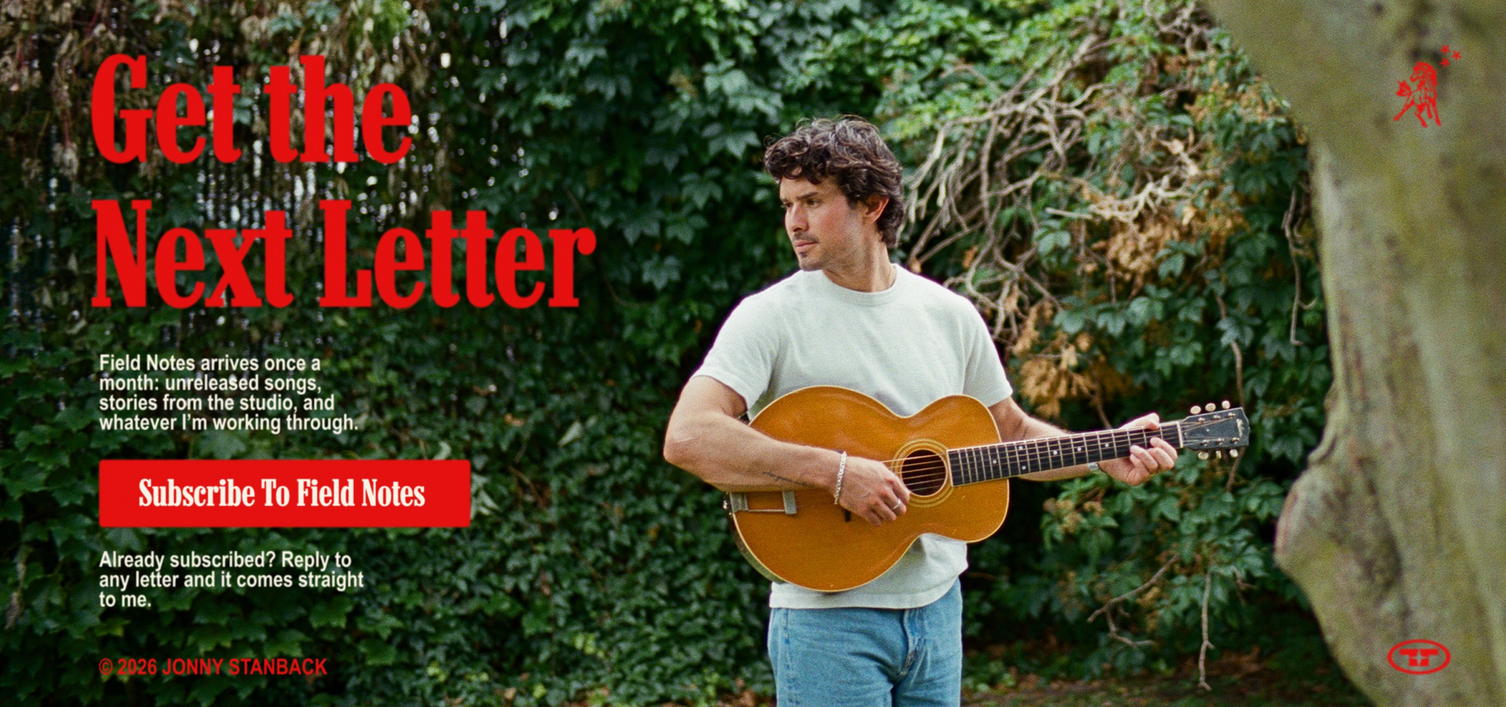
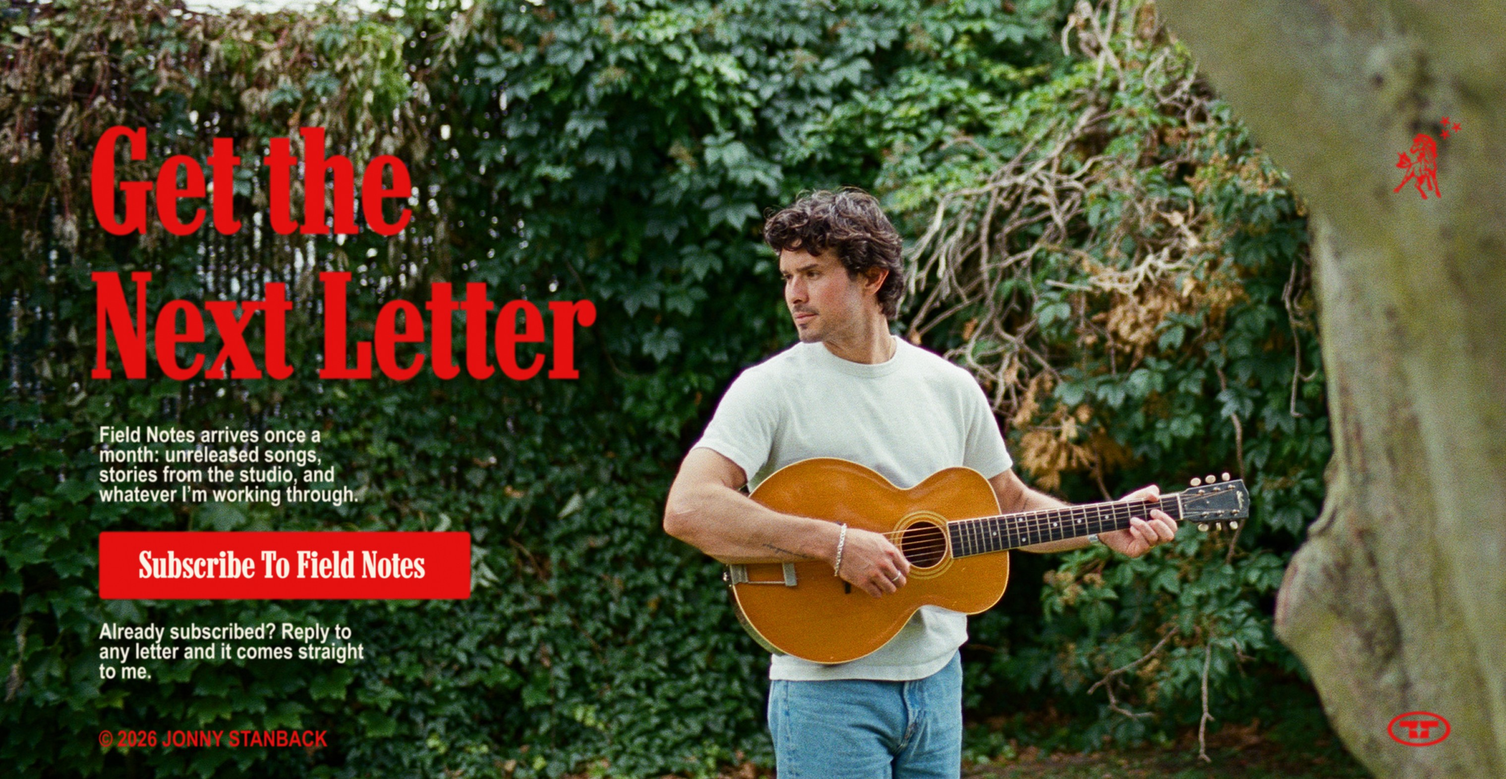
Field Notes: taller footer art with room for the reveal
Claude-Session: https://claude.ai/code/session_01WskyRLXqypqshX3CtVVRFg

diff --git a/src/styles/field-notes.css b/src/styles/field-notes.css
@@ -423,7 +423,7 @@ figcaption {
   .fn-tab__date { height: 1.45rem; margin-top: 0.4rem; }
   /* phones: crop the footer art to its text side so the words stay readable
      (left 1367px of 3038; button keeps its spot within that crop) */
-  .fn-subscribe .fn-subscribe__art { aspect-ratio: 1367 / 1427; object-fit: cover; object-position: left center; }
+  .fn-subscribe .fn-subscribe__art { aspect-ratio: 1367 / 1572; object-fit: cover; object-position: left center; }
   .fn-subscribe .fn-subscribe__button { left: 14.7%; width: 54.57%; }
   .fn-demo__bar { grid-template-columns: auto 1fr; column-gap: 1rem; row-gap: 0.9rem; padding: 1rem 1.1rem; }
   .fn-demo__title { font-size: 0.92rem; white-space: normal; }
@@ -453,13 +453,13 @@ figcaption {
 }
 .fn-subscribe__art { display: block; width: 100%; height: auto; }
 /* invisible link laid exactly over the button drawn in the footer art
-   (art is 3038x1427; button spans x 201-947, y 929-1062) */
+   (art is 3038x1572; button spans x 201-947, y 1074-1207) */
 .fn-subscribe__button {
   position: absolute;
   left: 6.62%;
-  top: 65.1%;
+  top: 68.32%;
   width: 24.56%;
-  height: 9.32%;
+  height: 8.46%;
   font-size: 0;
   color: transparent;
   border-radius: 2px;
